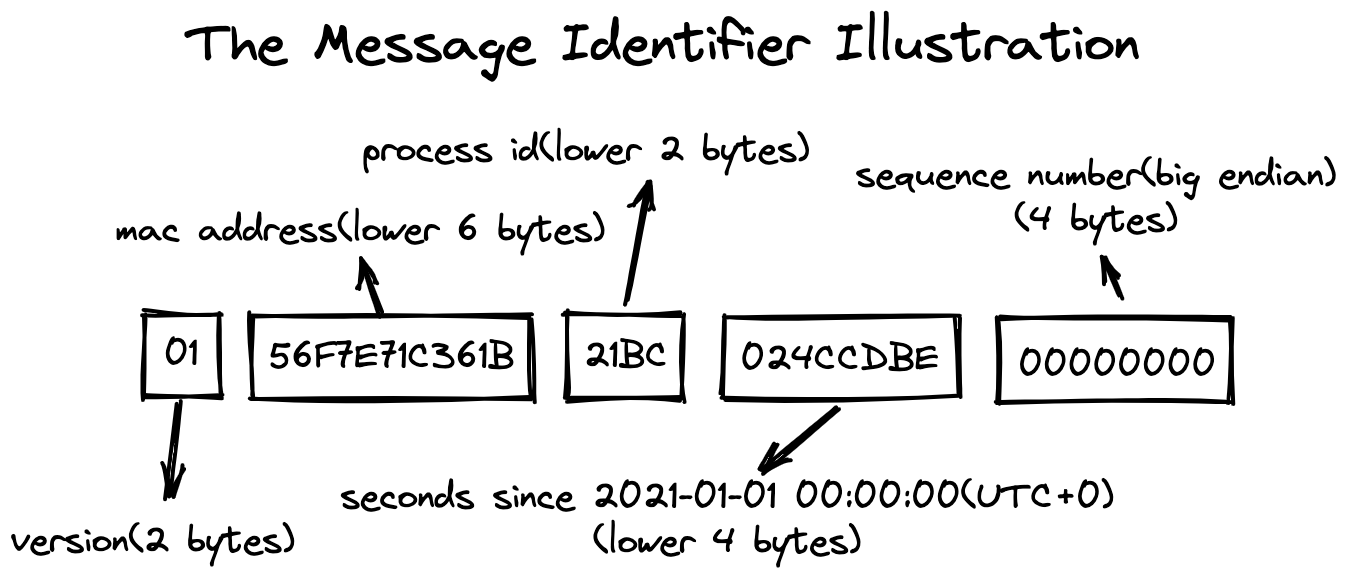
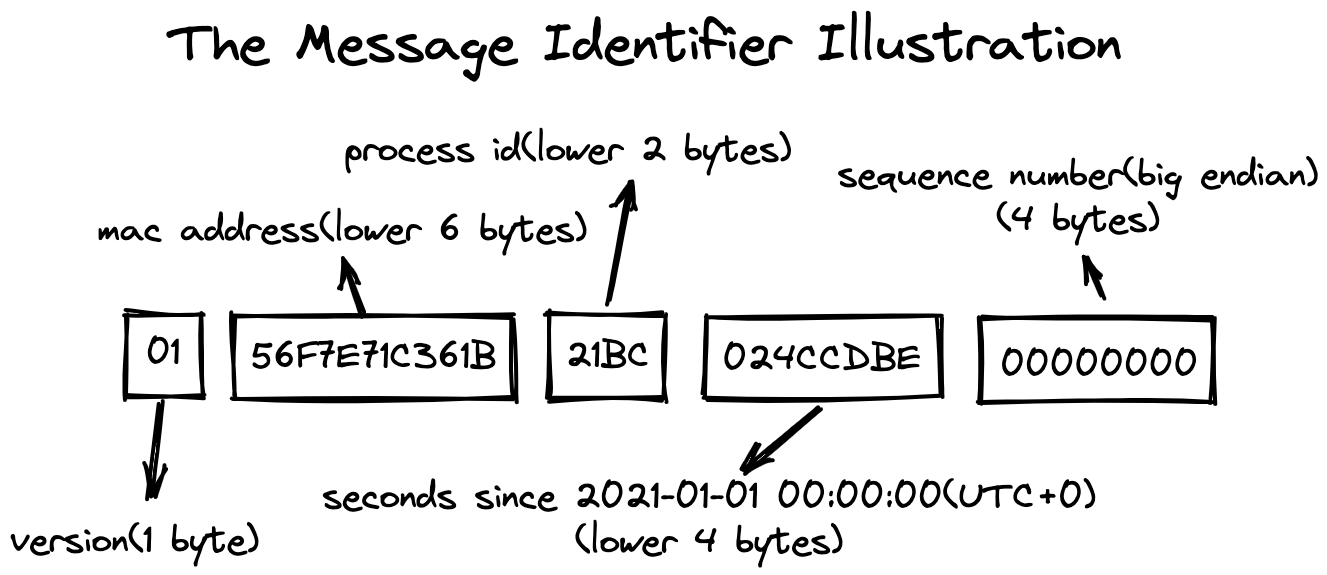
Docs: complete the part about message identifier (#16)

diff --git a/docs/message_id.md b/docs/message_id.md
@@ -6,8 +6,8 @@ Here is the new design for message identifier.
 
 In the past, there are two types of implementation of message identifier.
 
-1. Message identifier based on the broker address and the offset in message queue, find in [MessageDecoder#createMessageId](https://github.com/apache/rocketmq/blob/release-4.9.3/common/src/main/java/org/apache/rocketmq/common/message/MessageDecoder.java#L62-L71).
-2. Message identifier based on the client IP and unix timestamp, find in [MessageClientIDSetter#createUniqID](https://github.com/apache/rocketmq/blob/release-4.9.3/common/src/main/java/org/apache/rocketmq/common/message/MessageClientIDSetter.java#L114-L131).
+1. Message identifier based on the broker address and the offset in message queue, see [MessageDecoder#createMessageId](https://github.com/apache/rocketmq/blob/release-4.9.3/common/src/main/java/org/apache/rocketmq/common/message/MessageDecoder.java#L62-L71).
+2. Message identifier based on the client IP and unix timestamp, see [MessageClientIDSetter#createUniqID](https://github.com/apache/rocketmq/blob/release-4.9.3/common/src/main/java/org/apache/rocketmq/common/message/MessageClientIDSetter.java#L114-L131).
 
 The first type of message identifier is purely based on server-side information, which makes each message stored on the broker absolutely unique. The second message identifier is purely based on client information.
 
@@ -20,3 +20,15 @@ As for the second type, there are some major flaws in the algorithm design. Firs
 ## Detailed Design
 
 ![The Message Identifier Illustration](../docs/artwork/message_id.png)
+
+This illustration shows an example of message identifier. The version number of the newly designed version is 0x01, and number of all previous versions is 0x00. The message identifier's length is 17 bytes if its version is higher than 0x00, then we convert it to uppercase hexadecimal to get the message identifier in string format.
+
+>**Note**: Big endian byte order is used to place data in message identifier.
+
+Take the message identifier in the figure as an example, it could be divided into 5 parts:
+
+* **0x01**: fixed 1 byte for current version.
+* **0x56F7E71C361B**: lower 6 bytes of local mac address.
+* **0x21BC**: lower 2 bytes of process id.
+* **0x024CCDBE**: seconds since 2021-01-01 00:00:00(UTC+0, lower 4 bytes).
+* **0x00000000**: sequence number(4 bytes).
